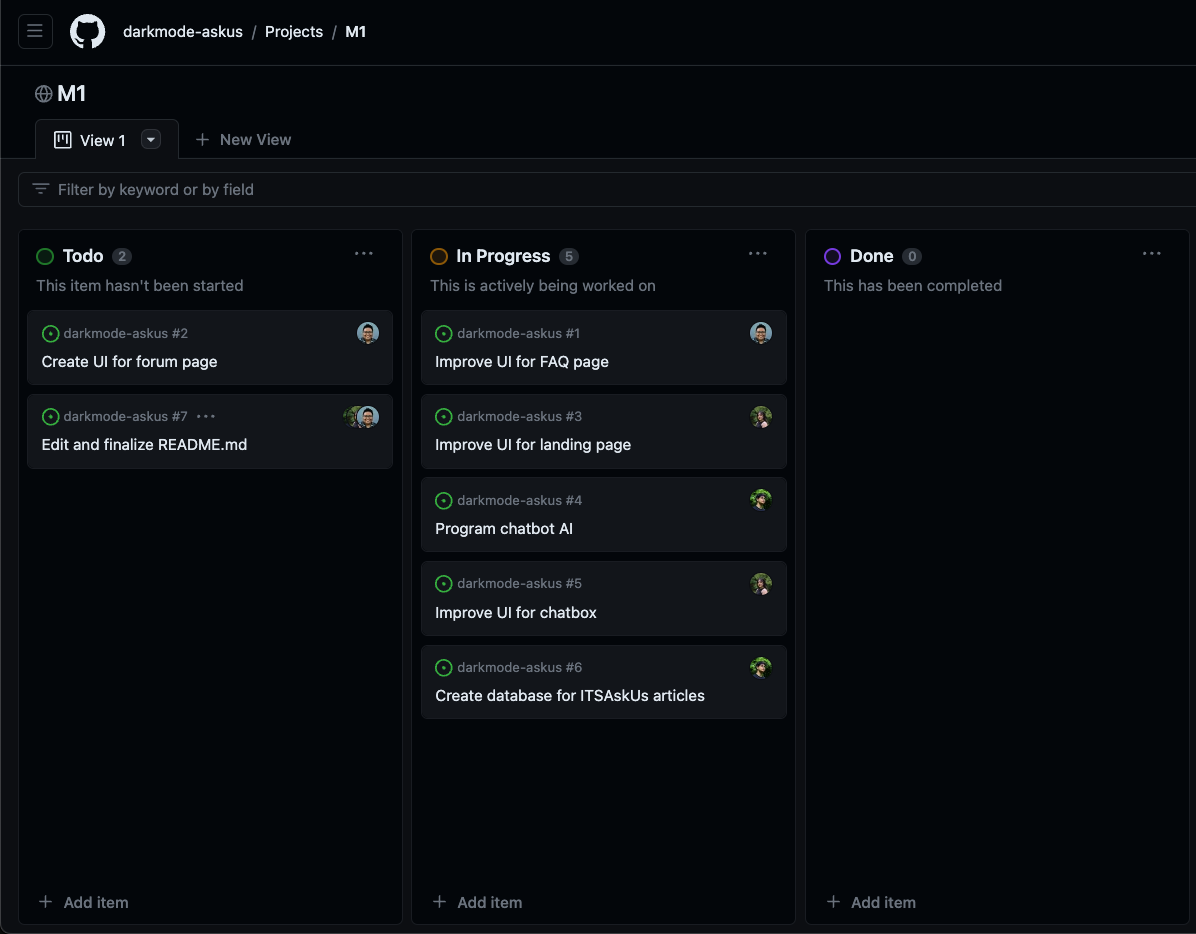
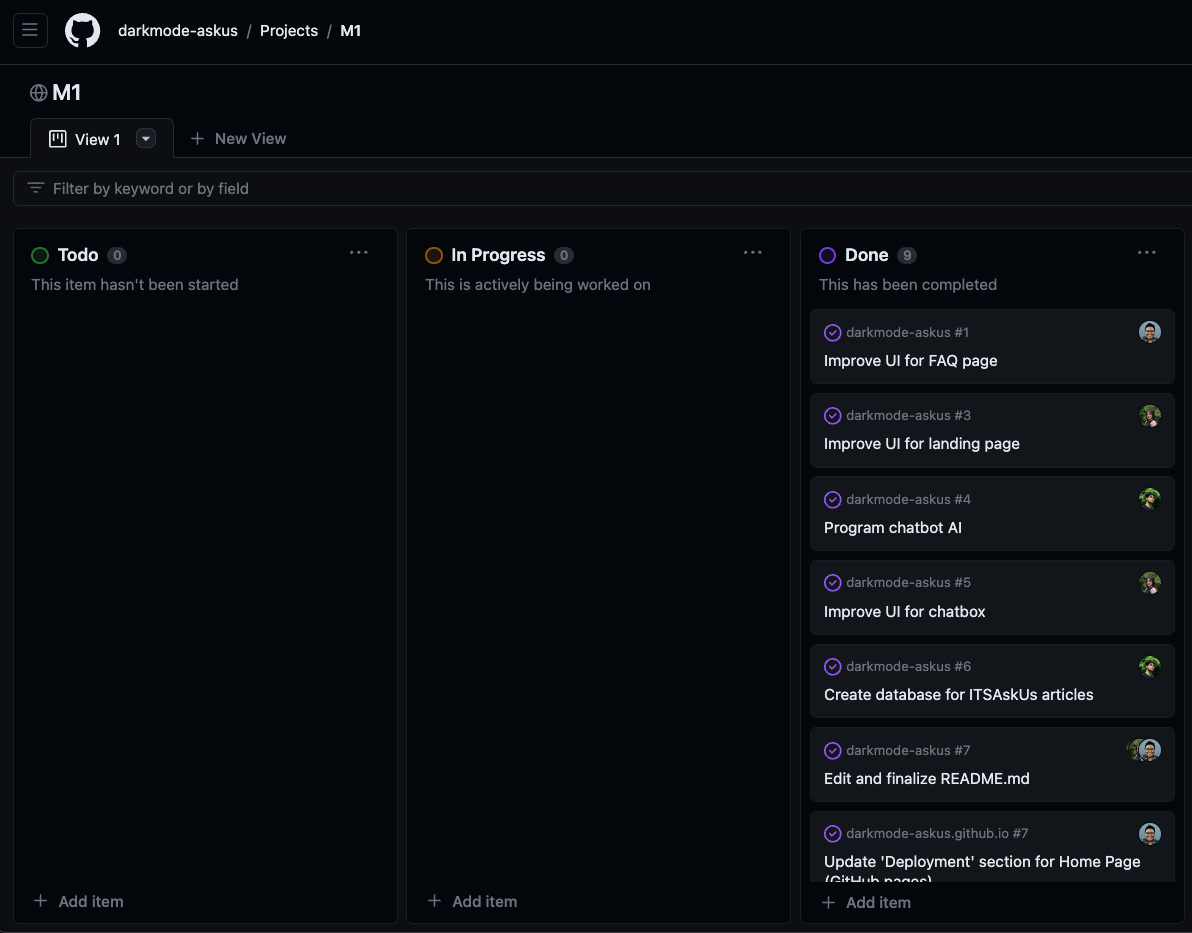
Updated M1 section

diff --git a/index.md b/index.md
@@ -24,7 +24,7 @@ Solution: Our team will create a ChatBot with the use of modern AI tools that wi
 ## Links
 - [GitHub Organization](https://github.com/darkmode-askus/)
 - [Team Contract](https://docs.google.com/document/d/10KI7QzybiLFSjhUuJa4Rv9LNcAiDDKtMt7nOhDZN9LM/edit?usp=sharing/)
-- [M1 Project page](https://github.com/orgs/darkmode-askus/projects/6/)
+- [Link to Deployed Application](http://143.198.151.26/)
 
 # User's Guide
 
@@ -86,9 +86,9 @@ The development process conformed to [Issue Driven Project Management](https://c
 
 Our development history is displayed in the sections below.
 
-### Milestone 1: Mockup development
+### Milestone 1:
 
-The goal of Milestone 1 is to improve the UI for the FAQ and report pages along with the chatbox. In addition, we plan to continue programming the chatbot AI and expand the databases to accomplish the bonus challenges for HACC. We also want to start on creating a mockup UI for the forum page and edit our README.md.
+The goal of Milestone 1 is to improve the UI for the FAQ and report pages along with the chatbox. In addition, we plan to continue programming the chatbot AI by expanding the databases to accomplish the bonus challenges for HACC and focus on prompt injections. We also finalized our README.md and updated our GitHub Pages.
 
 #### Milestone 1 was managed using [GitHub Project Board M1](https://github.com/orgs/darkmode-askus/projects/6/views/1):
 
